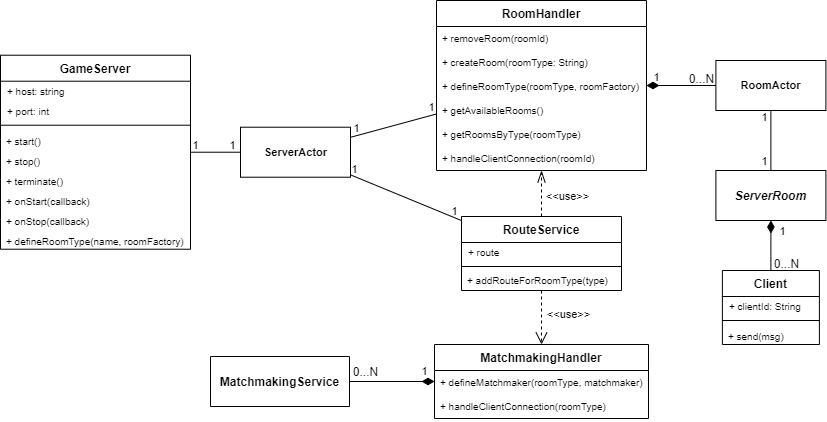
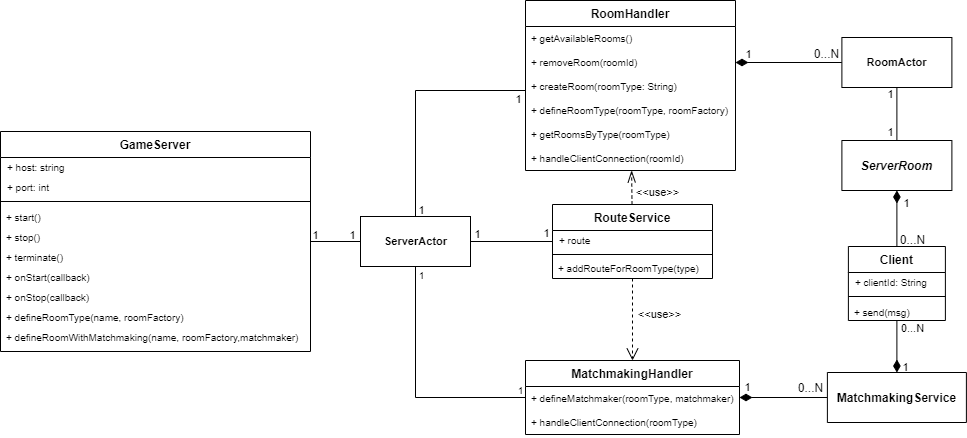
Improved server design doc

diff --git a/doc/report/4-detailedDesign.tex b/doc/report/4-detailedDesign.tex
@@ -19,19 +19,24 @@
 \section{Server}
 Class diagram in figure \ref{fig:server_class_diagram} describes in detail the server architecture with the addition of actors, displaying the main functionalities of the classes.
 \begin{figure}[h]
-	\hspace*{-1in}
-	\includegraphics[scale=0.6]{images/4-design/server_class.png}
+	\hspace*{-1.1in}
+	\includegraphics[scale=0.55]{images/4-design/server_class.png}
 	\caption{Server class diagram}
 	\label{fig:server_class_diagram}
 \end{figure}
 
 The \texttt{GameServer} class is the facade interface that is exposed to the developer. It internally creates a \texttt{ServerActor} that is the entity that acts as the real server listening for clients requests. This actor creates a \texttt{RouteService} object that is used to know which routes to use and how to handle request; it also allows to dynamically define new room types that will be used by te server. 
 
-The \texttt{ServerActor} also uses a \texttt{RoomHandler} create and define rooms from the server. The same RoomHandler used by the RouteService.
+The \texttt{ServerActor} also uses a \texttt{RoomHandler} to create and define rooms from the server. The same RoomHandler used by the RouteService.
 
-As we described for the server architecture in section \ref{sec:server_arch}, the purpose of the \texttt{RoomHandler} is to manage the active rooms in the applications.Specificallt though doesn't directly create rooms but instead it creates RoomActors which are actors used as 'wrappers' for ServerRooms to avoid concurrency issues: indeed more than one client can interact with a single room at the same time, so, in order to avoid race coditions, we decided to make clients communicate with RoomActors (that process messages one at the time) that then would 
+As we described for the server architecture in section \ref{sec:server_arch}, the purpose of the \texttt{RoomHandler} is to manage the active rooms in the applications. Specifically though it doesn't directly create rooms but instead it creates RoomActors: actors used as 'wrappers' for ServerRooms to avoid concurrency issues.  More than one client can indeed interact with a single room at the same time, so, in order to avoid race coditions, we decided to make clients communicate with RoomActors that process messages sequentially. Each actor is in charge of notifying clients' actions to the room that is associated with.
 
-The \texttt{RoomHandler}
+Each \texttt{ServerRoom} liked to the actor keeps track of connected clients (\texttt{Client} class in figure) to know which clients have joined and can interact with the room and also to know who are the receivers of \texttt{broadcast} operations. Clients are uniquely identified by their id and expose a \texttt{send} method that allows to send messages to them. It is important to notice that each room has its own view of clients: the same client connected to different rooms will have a different id in each of them. 
+
+Clients are also used by the \texttt{MatchmakingService} since is the actor that performs matchmaking operations and needs to know which clients are waiting to start a match. \texttt{MatchmakingService} actors are spawned during server startup if the developer used the \texttt{defineRoomWithMatchmaking} method to define a room. 
+
+Since clients can make requests for matchmaking, the \texttt{RouteService} use a \texttt{MatchmakingHandler} to redirect those requests to the right \texttt{MatchmakingService} actor.
+
 
 \section{Client}
 

diff --git a/doc/report/1-scoping.tex b/doc/report/1-scoping.tex
@@ -192,7 +192,7 @@ The main difference is given by the possible use of matchmaking.
 \\
 Regarding rooms without matchmaking, there are three ways a client can join a room, that is:
 \begin{itemize}
-\item \textbf{Radom join}: a client joins a random public room of a certain type; filter options may be used to provide some directives.
+\item \textbf{Random join}: a client joins a random public room of a certain type; filter options may be used to provide some directives.
 \item \textbf{Join by Id}: a client joins a room using its id, and optionally a password (required if the room is private, any provided password will be ignored if the room is public).
 \item \textbf{Auto join}: when successfully creating a room, the client should automatically join it.
 \end{itemize} 
